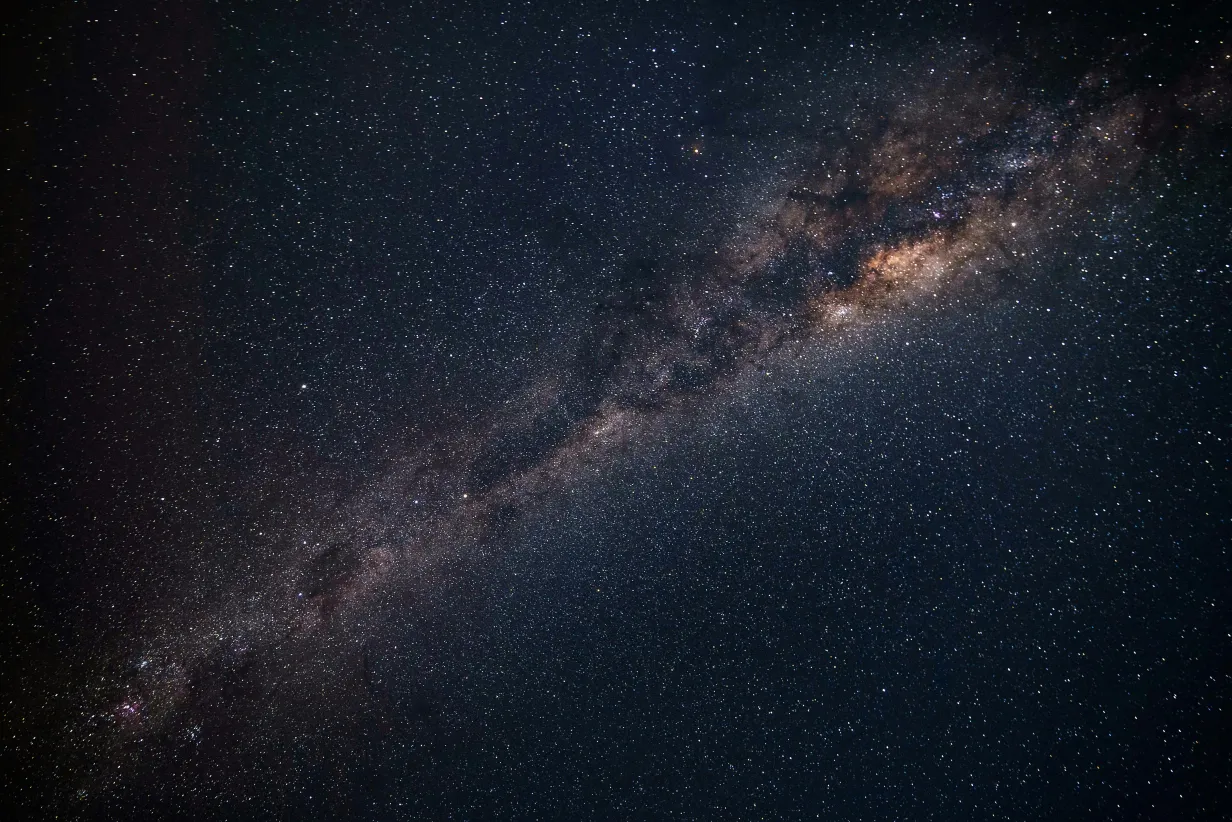
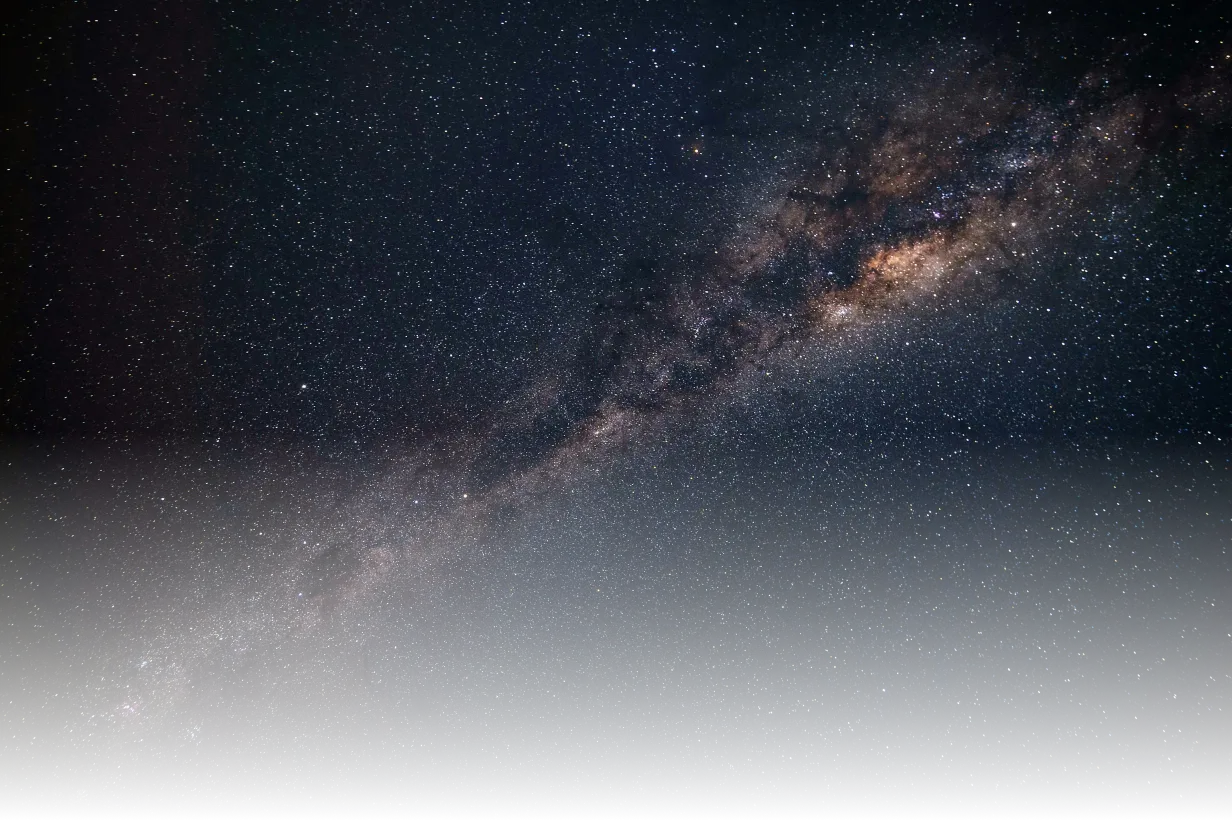
Add new assets and implement comet easter egg

diff --git a/styles.css b/styles.css
@@ -5,14 +5,111 @@
 }
 
 html {
-    scroll-behavior: smooth;
+  scroll-behavior: smooth;
 }
 
 .anchor {
-    display: block;
-    margin-top: -100vh;
-    visibility: hidden;
-    height: 0;
+  display: block;
+  margin-top: -100vh;
+  visibility: hidden;
+  height: 0;
+}
+
+main {
+  position: relative;
+  z-index: 1;
+  height: 100%;
+  background: url("assets/stars2.jpg");
+  background-color: rgba(0, 0, 0, 0.3);
+  background-blend-mode: darken;
+}
+
+@keyframes star-move {
+  0% {
+    transform: translateX(100%);
+  }
+  10% {
+    transform: translateX(-100%);
+  }
+  100% {
+    transform: translateX(-100%);
+  }
+}
+
+@keyframes explosion {
+  0% {
+    transform: scale(0);
+    opacity: 0;
+  }
+  10% {
+    transform: scale(0.5);
+    opacity: 1;
+  }
+  60% {
+    transform: scale(1.5);
+    opacity: 0;
+  }
+  100% {
+    transform: scale(1.5);
+    opacity: 0;
+  }
+}
+
+@keyframes hubble-move {
+  0% {
+    transform: translateX(0);
+  }
+  50% {
+    transform: translateX(10rem);
+  }
+  100% {
+    transform: translateX(0);
+  }
+}
+
+.shooting-star {
+  position: absolute;
+  height: 100px;
+  top: 50vh;
+  right: 10vw;
+  z-index: 0;
+  rotate: -10deg;
+  mix-blend-mode: exclusion;
+  visibility: hidden;
+  animation: none;
+  animation-play-state: paused;
+}
+
+.explosion {
+  position: absolute;
+  height: 700px;
+  top: 25vh;
+  left: 10vw;
+  z-index: 0;
+  opacity: 0.7;
+  visibility: hidden;
+  animation: none;
+  animation-play-state: paused;
+}
+
+.shooting-star.animate {
+  visibility: visible;
+  animation: star-move 20s linear forwards;
+  animation-play-state: running;
+}
+
+.explosion.animate {
+  visibility: visible;
+  animation: explosion 20s linear forwards;
+  animation-play-state: running;
+}
+
+#hubble {
+  position: absolute;
+  height: 50px;
+  top: 5vh;
+  right: 57vw;
+  animation: hubble-move 20s ease-in-out infinite;
 }
 
 .top-section {
@@ -39,22 +136,6 @@ html {
   text-shadow: 5px 5px 10px rgb(19, 17, 28);
 }
 
-#background {
-  position: absolute;
-  top: 0;
-  left: 0;
-  z-index: -1;
-}
-
-main {
-  position: relative;
-  z-index: 1;
-  height: 100%;
-  background: url("assets/stars.jpg");
-  background-color: rgba(0, 0, 0, 0.3);
-  background-blend-mode: darken;
-}
-
 .jupiter-container {
   width: 40vw;
 }
@@ -66,6 +147,7 @@ main {
   left: -200px;
   transform: scale(1);
   transition: transform 0.25s;
+  border-radius: 100%;
 }
 
 #jupiter:hover {
@@ -85,6 +167,7 @@ main {
   height: 150px;
   transform: scale(1);
   transition: transform 0.25s;
+  border-radius: 100%;
 }
 
 .moons-container img:hover {
@@ -167,16 +250,20 @@ main {
 }
 
 .scroll-up {
-    position: fixed;
-    z-index: 3;
-    color: black;
-    scale: 2;
-    bottom: 5rem;
-    right: 8rem;
-    width: 50px;
-    height: 25px;
-    border-radius: 5px;
-    border: none;
-    box-shadow: 0 0 5px rgb(215, 189, 112);
-    background: rgb(222, 186, 56);
+  position: fixed;
+  z-index: 3;
+  color: black;
+  scale: 2;
+  bottom: 5rem;
+  right: 8rem;
+  width: 50px;
+  height: 25px;
+  border-radius: 5px;
+  border: none;
+  box-shadow: 0 0 5px rgb(215, 189, 112);
+  background: rgb(222, 186, 56);
+}
+
+.scroll-up:hover {
+  cursor: pointer;
 }

diff --git a/index.html b/index.html
@@ -4,10 +4,13 @@
 <head>
     <meta charset="UTF-8">
     <meta name="viewport" content="width=device-width, initial-scale=1.0">
-    <title>Document</title>
+    <title>Jupiter's måner</title>
 
     <!-- bruk styles.css for styling -->
     <link rel="stylesheet" href="styles.css">
+
+    <!-- bruk index.js for comet easter egg-->
+    <script src="index.js" defer></script>
 
     <!-- last ned fonts fra google -->
     <link rel="preconnect" href="https://fonts.googleapis.com">
@@ -19,6 +22,11 @@
 
 <body>
     <main id="main">
+        <div class="easter-egg">
+            <img src="assets/shoemaker-levy-9.png" alt="" class="shooting-star">
+            <img src="assets/explosion.png" alt="" class="explosion">
+            <img id="hubble" src="assets/hubble.png" alt="Hubble telescope">
+        </div>
         <div class="top-section">
             <div class="jupiter-container">
                 <a href="#jupiter-info"><img id="jupiter" src="assets/jupiter.png" alt=""></a>

diff --git a/index.js b/index.js
@@ -1,0 +1,30 @@
+const shootingStar = document.querySelector(".shooting-star");
+const explosion = document.querySelector(".explosion");
+const hubble = document.querySelector("#hubble");
+
+function playComet() {
+    shootingStar.classList.remove("animate");
+    explosion.classList.remove("animate");
+
+    // brukte copilot for å finne denne løsningen VVV
+    // "force reflow so the browser treats the subsequent add as a fresh animation"
+    void document.body.offsetWidth;
+
+    shootingStar.classList.add("animate");
+    explosion.classList.add("animate");
+
+    shootingStar.addEventListener("animationend", () =>
+        shootingStar.classList.remove("animate"),
+        {once: true}
+    );
+
+    explosion.addEventListener("animationend", () =>
+        explosion.classList.remove("animate"),
+        {once: true}
+    );
+}
+
+hubble.addEventListener("click", () => {
+        console.log("Hubble clicked");
+        playComet();
+    });
